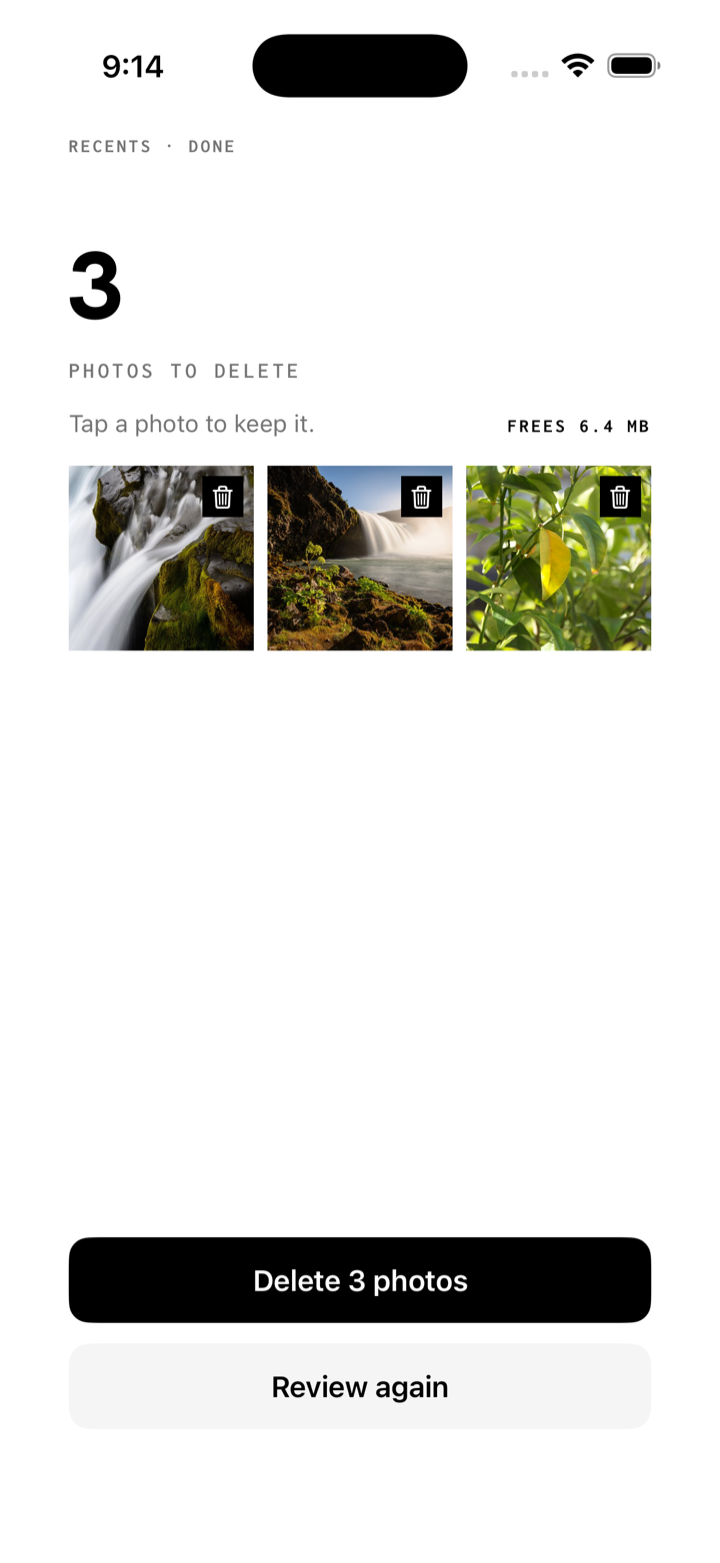
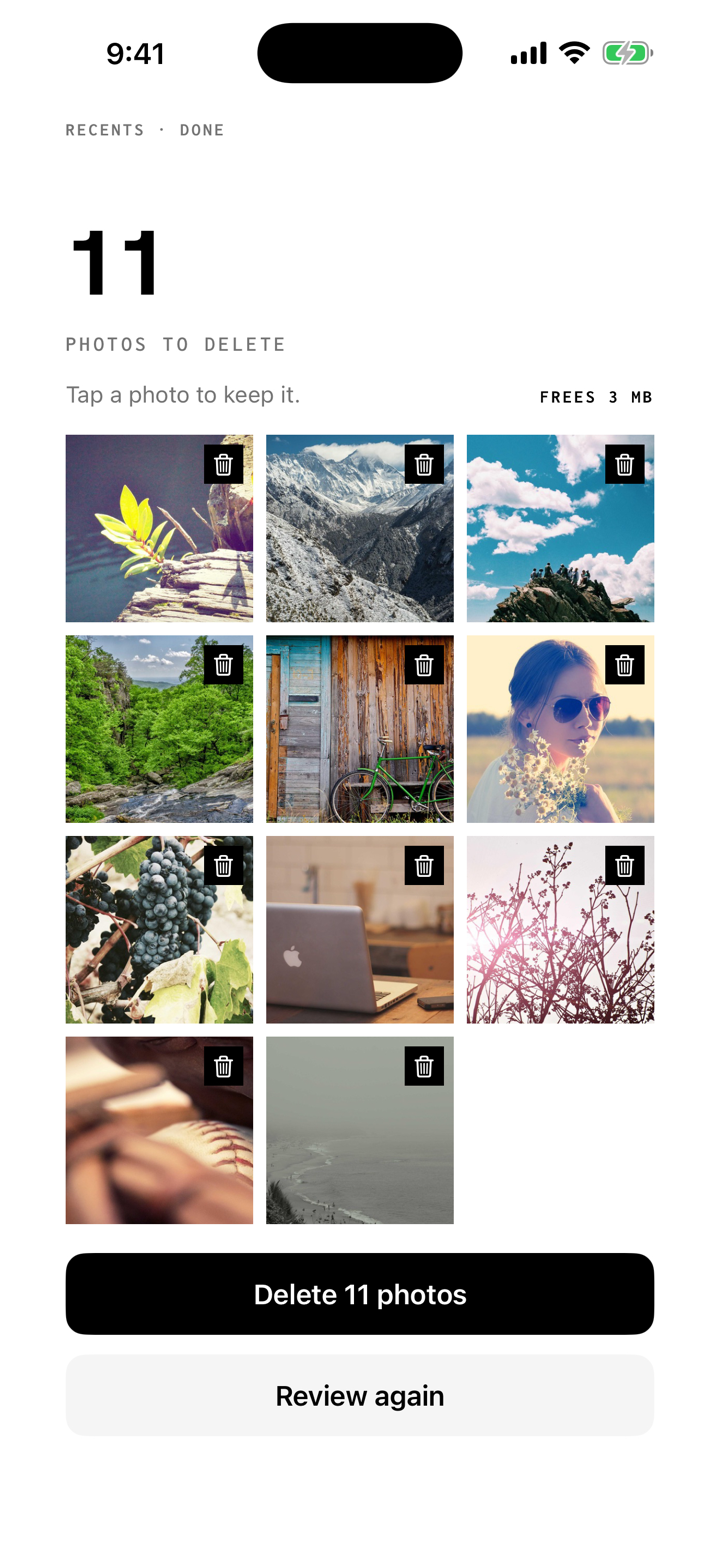
Use App Store screenshots on the homepage and beta page

diff --git a/beta/index.html b/beta/index.html
@@ -41,15 +41,15 @@
 
       <div class="shots">
         <figure class="shot">
-          <img src="../images/home.png" alt="Home screen: 6 photos left to review, Recents and Random rows under Today, and the library listed by month with thumbnails." width="720" height="1563">
+          <img src="../images/home.png" alt="Home screen: 66 photos left to review, with On this day, Recents and Random rows under Today." width="720" height="1564">
           <figcaption>Your library</figcaption>
         </figure>
         <figure class="shot">
-          <img src="../images/review.png" alt="Review screen: a waterfall photo, 1 of 3, from August 2012, 2.5 MB, with Delete and Keep buttons." width="720" height="1563">
+          <img src="../images/review.png" alt="Review screen: a coastline with pine trees, 3 of 6, from On this day, 265 KB, with Delete and Keep buttons." width="720" height="1564">
           <figcaption>Delete or keep</figcaption>
         </figure>
         <figure class="shot">
-          <img src="../images/confirm.png" alt="Confirm screen: 3 photos to delete, freeing 6.4 MB, with a Delete 3 photos button and a Review again button." width="720" height="1563">
+          <img src="../images/confirm.png" alt="Confirm screen: 11 photos to delete, freeing 3 MB, with a Delete 11 photos button and a Review again button." width="720" height="1564">
           <figcaption>Check, then clear</figcaption>
         </figure>
       </div>

diff --git a/index.html b/index.html
@@ -39,15 +39,15 @@
 
       <div class="shots">
         <figure class="shot">
-          <img src="images/home.png" alt="Home screen: 6 photos left to review, Recents and Random rows under Today, and the library listed by month with thumbnails." width="720" height="1563">
+          <img src="images/home.png" alt="Home screen: 66 photos left to review, with On this day, Recents and Random rows under Today." width="720" height="1564">
           <figcaption>Your library</figcaption>
         </figure>
         <figure class="shot">
-          <img src="images/review.png" alt="Review screen: a waterfall photo, 1 of 3, from August 2012, 2.5 MB, with Delete and Keep buttons." width="720" height="1563">
+          <img src="images/review.png" alt="Review screen: a coastline with pine trees, 3 of 6, from On this day, 265 KB, with Delete and Keep buttons." width="720" height="1564">
           <figcaption>Delete or keep</figcaption>
         </figure>
         <figure class="shot">
-          <img src="images/confirm.png" alt="Confirm screen: 3 photos to delete, freeing 6.4 MB, with a Delete 3 photos button and a Review again button." width="720" height="1563">
+          <img src="images/confirm.png" alt="Confirm screen: 11 photos to delete, freeing 3 MB, with a Delete 11 photos button and a Review again button." width="720" height="1564">
           <figcaption>Check, then clear</figcaption>
         </figure>
       </div>
